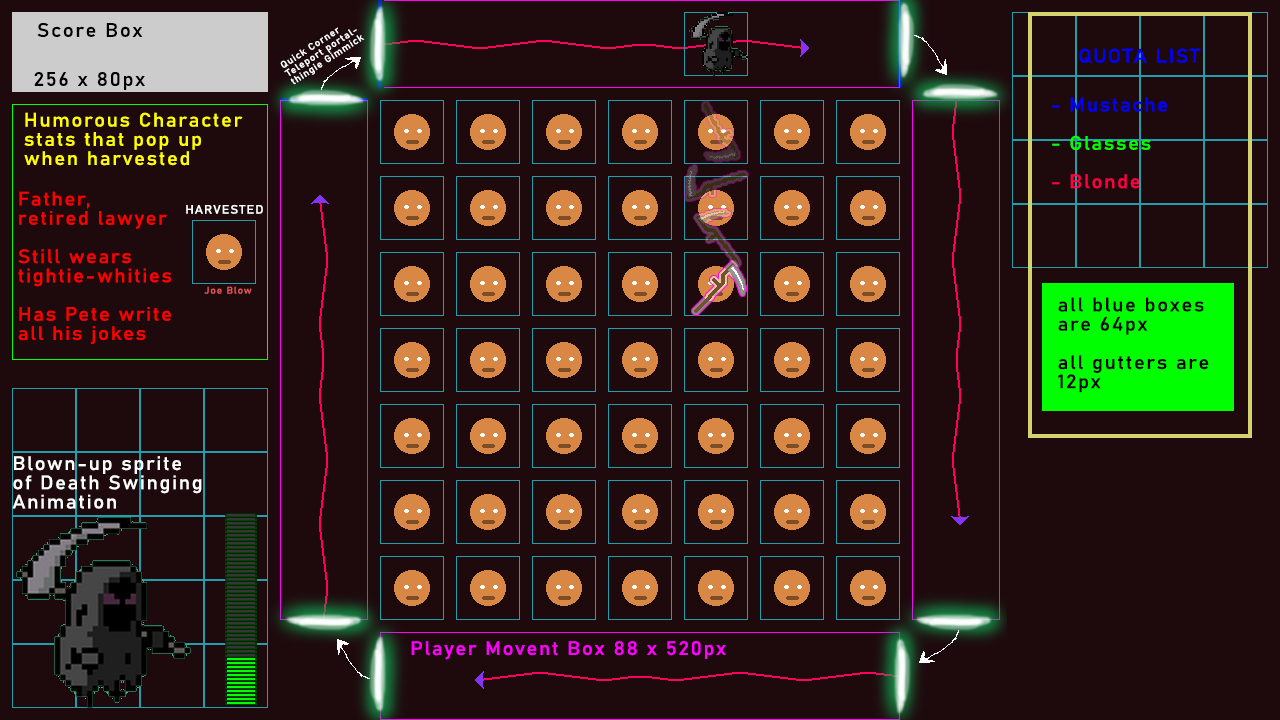
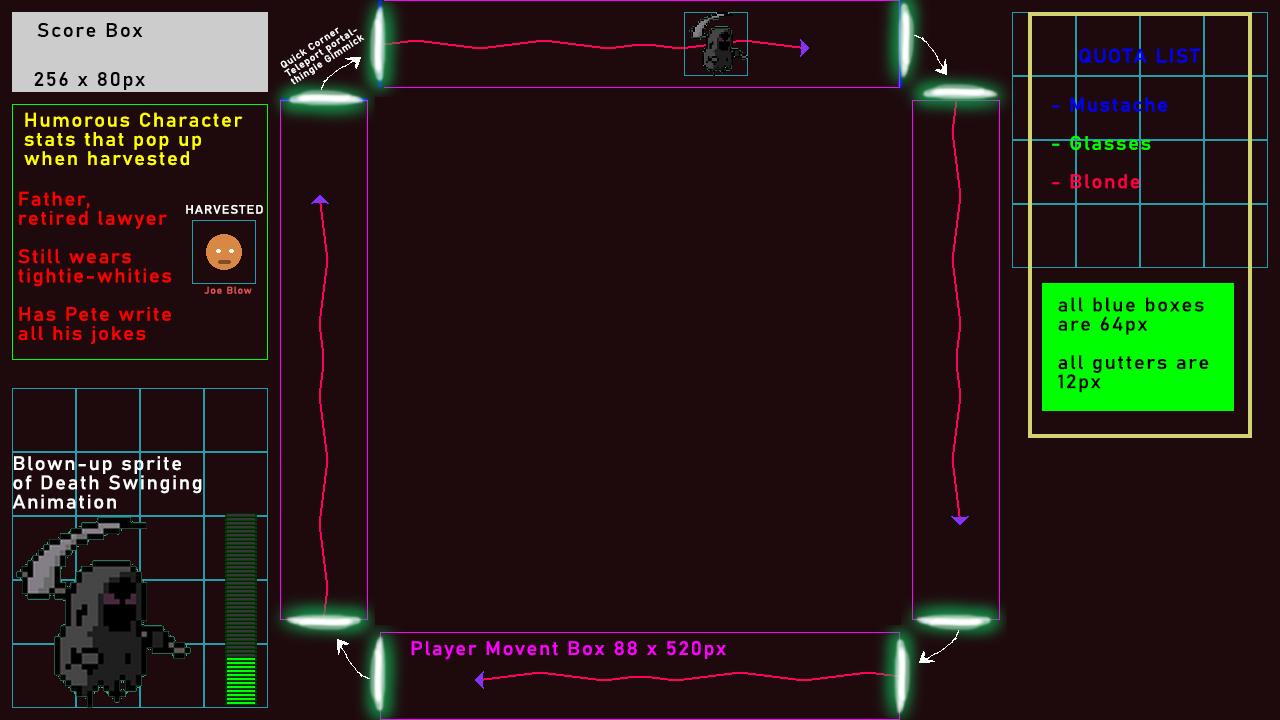
Change gameboard to a 6x6 grid

diff --git a/core/src/main/java/lando/systems/ld52/gameobjects/GameBoard.java b/core/src/main/java/lando/systems/ld52/gameobjects/GameBoard.java
@@ -8,10 +8,16 @@ import lando.systems.ld52.Main;
 
 public class GameBoard {
 
-    public final static int gridSize = 7;
-    public final static float tileSize = 64;
-    public final static float margin = 12;
-    public final static float boardSize = margin + (tileSize + margin) * gridSize;
+//    public final static int gridSize = 7;
+//    public final static float tileSize = 72;
+//    public final static float margin = 6;
+//    public final static float boardSize = margin + (tileSize + margin) * gridSize;
+
+    // 6x6 grid instead of 7x7
+    public final static float boardSize = 550;
+    public final static int gridSize = 6;
+    public final static float margin = 6;
+    public final static float tileSize = (boardSize - (gridSize + 1) * margin) / (gridSize);
 
     private final Tile[][] tiles;
 

diff --git a/core/src/main/java/lando/systems/ld52/gameobjects/TileHead.java b/core/src/main/java/lando/systems/ld52/gameobjects/TileHead.java
@@ -35,6 +35,10 @@ public class TileHead extends TileObject {
         features = new Array<>();
         featureAnims = new Array<>();
         for (Feature feature : Feature.values()) {
+            // skip some stuff so we only have one feature per 'category'
+            if (feature == Feature.hair_long_brown) continue;
+            if (feature == Feature.glasses_a) continue;
+            if (feature == Feature.cigarette) continue;
             features.add(feature);
             featureAnims.add(Feature.get(assets, feature));
         }

diff --git a/core/src/main/java/lando/systems/ld52/assets/Feature.java b/core/src/main/java/lando/systems/ld52/assets/Feature.java
@@ -20,6 +20,8 @@ public enum Feature {
     , tongue           ("tongue", "tongue out")
     ;
 
+
+
     public static final String prefix = "faces/test/";
     public final String regionsName;
     public final String displayName;
